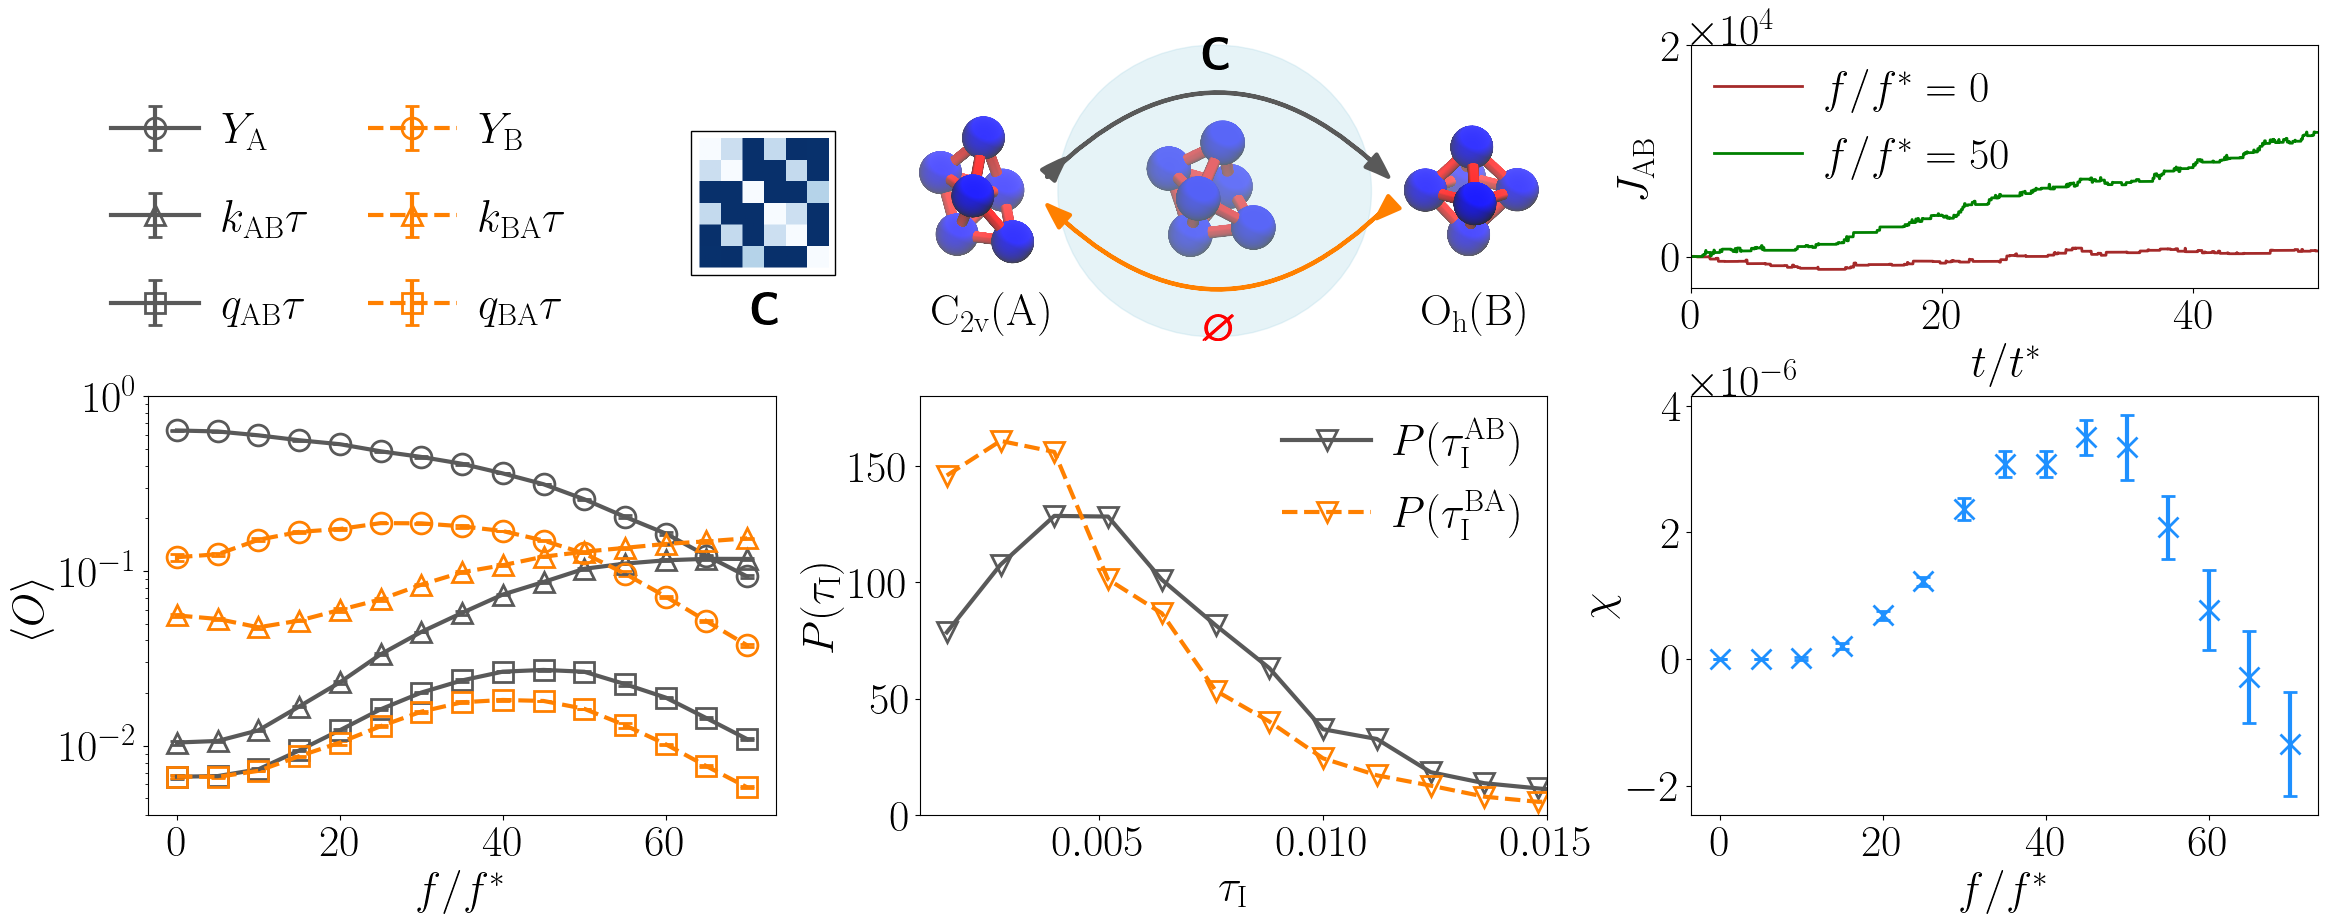
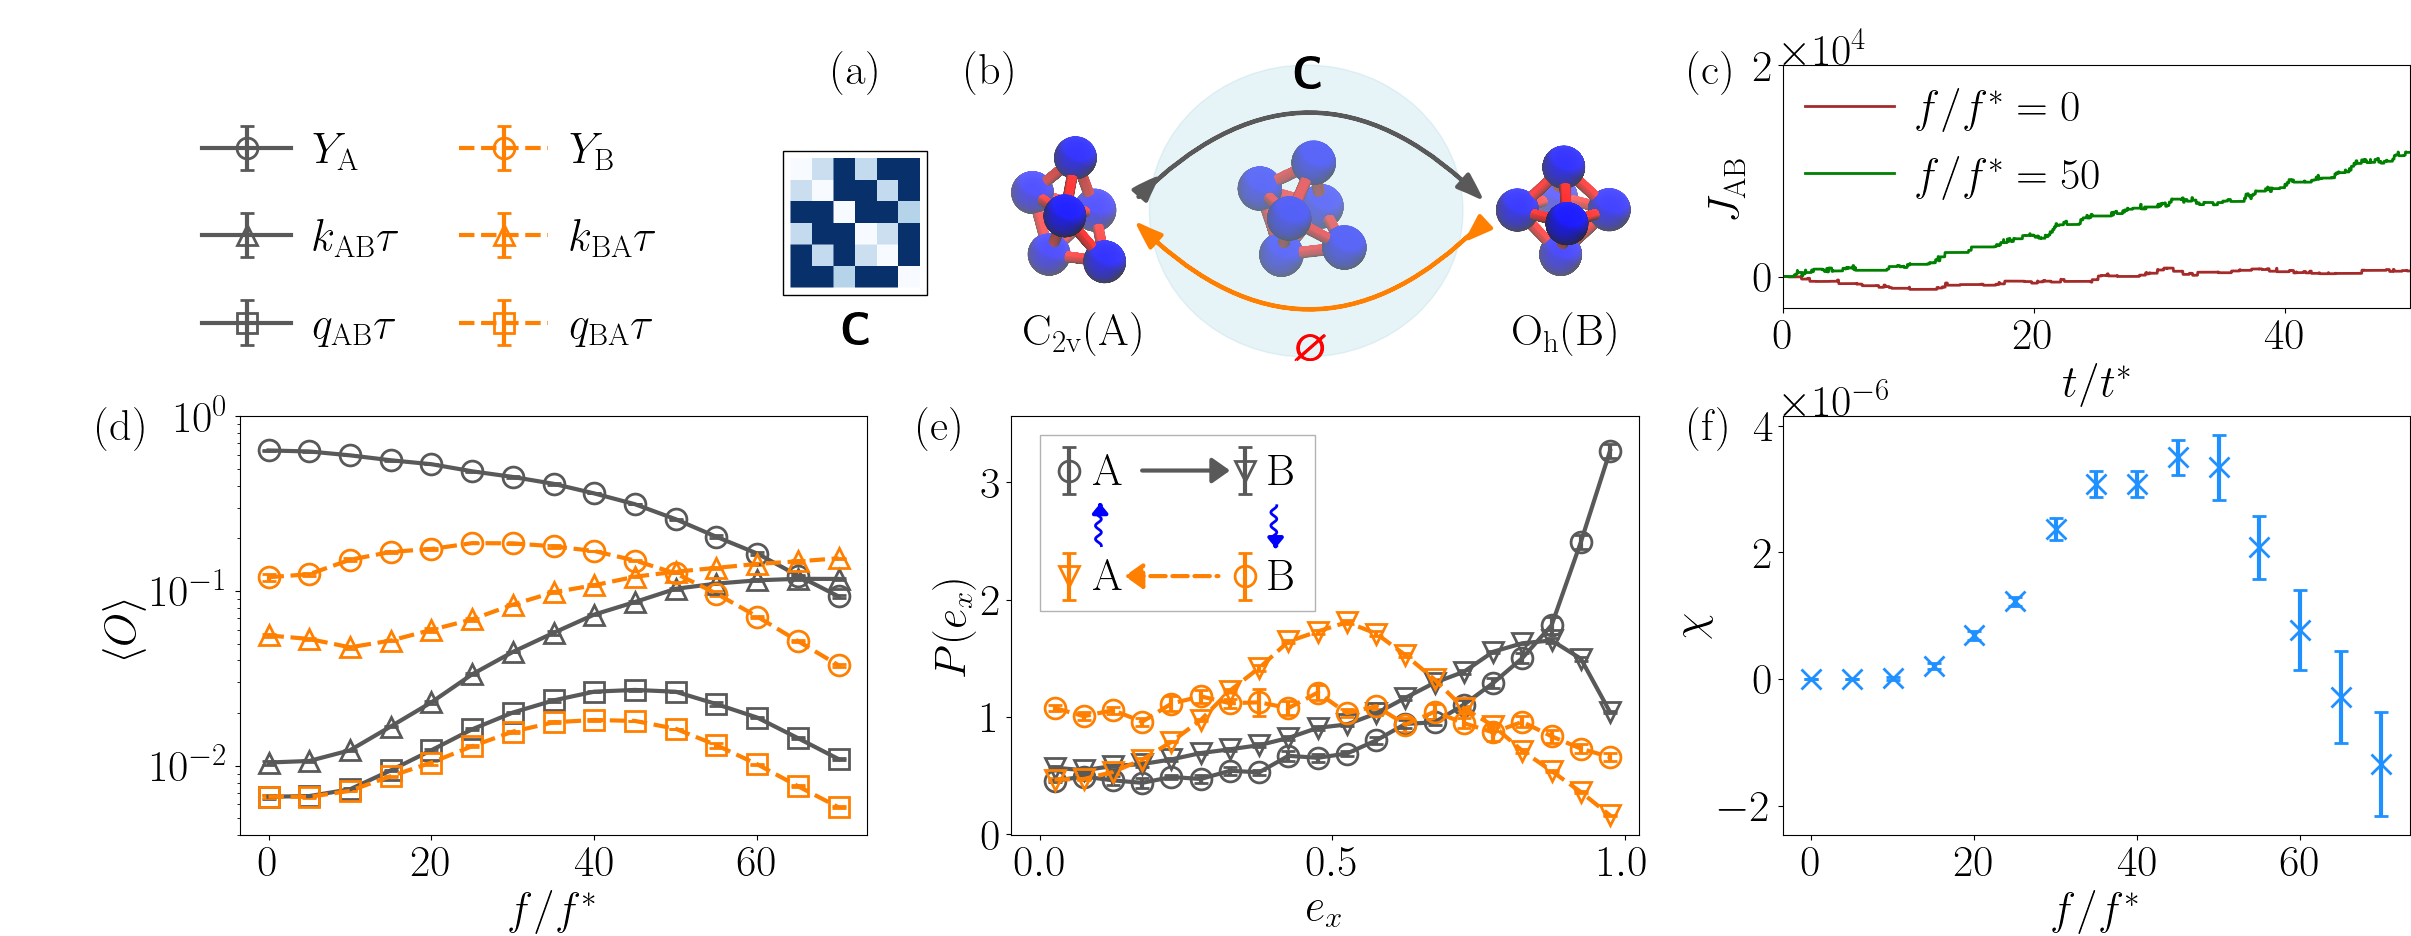
Add files via upload

diff --git a/fig2/fig2.py b/fig2/fig2.py
@@ -11,6 +11,7 @@ from matplotlib.patches import Rectangle,Ellipse
 import matplotlib.colors as mcol
 import matplotlib.cm as cm
 from mpl_toolkits.axes_grid1.inset_locator import inset_axes
+import matplotlib.path as mpath
 
 #mpl.style.use("classic")
 mpl.rcParams['mathtext.fontset'] = 'cm'
@@ -27,9 +28,9 @@ axs=[fig.add_subplot(gs[0:2,0]),fig.add_subplot(gs[0:2,1]),fig.add_subplot(gs[0:
 
 s=np.arange(0,75,5)
 x=np.zeros((3,np.size(s),4))
-x[0,:,:]=np.loadtxt('shearsweep/solC/run1/omega.txt')
-x[1,:,:]=np.loadtxt('shearsweep/solC/run2/omega.txt')
-x[2,:,:]=np.loadtxt('shearsweep/solC/run3/omega.txt')
+x[0,:,:]=np.loadtxt('shearsweep/solA/run1/omega.txt')
+x[1,:,:]=np.loadtxt('shearsweep/solA/run2/omega.txt')
+x[2,:,:]=np.loadtxt('shearsweep/solA/run3/omega.txt')
 
 rs=np.zeros((3,np.size(s),2))
 rs[:,:,0]=x[:,:,2]/x[:,:,0]
@@ -202,17 +203,17 @@ xqq=0.5*(xq[:-1]+xq[1:])
 yp,yq=np.histogram(yn,bins=20,range=(0.001,0.025),density=True)
 yqq=0.5*(yq[:-1]+yq[1:])
 
-axs[4].plot(xqq,xp,color=(0.35,0.35,0.35),marker='v',linestyle='-',
-        lw=3,fillstyle='none',markersize=15,mew=2,label=r'$P(\tau_\mathrm{I}^{\mathrm{AB}})$')
-axs[4].plot(yqq,yp,color=(1,0.5,0),marker='v',linestyle='--',
-        lw=3,fillstyle='none',markersize=15,mew=2,label=r'$P(\tau_\mathrm{I}^{\mathrm{BA}})$')
-axs[4].set_xlabel(r'$\tau_\mathrm{I}$')
-axs[4].set_ylabel(r'$P(\tau_\mathrm{I})$')
-axs[4].set_xlim(0.001,0.015)
-axs[4].set_ylim(0,180)
-axs[4].legend(loc = 'upper right', ncol = 1, columnspacing=2.,
-        labelspacing=0.5,handletextpad = 0.5,
-        borderpad=0.0,frameon='False',framealpha=0.0)#,bbox_to_anchor=(0.6, 1))
+#axs[4].plot(xqq,xp,color=(0.35,0.35,0.35),marker='v',linestyle='-',
+#        lw=3,fillstyle='none',markersize=15,mew=2,label=r'$P(\tau_\mathrm{I}^{\mathrm{AB}})$')
+#axs[4].plot(yqq,yp,color=(1,0.5,0),marker='v',linestyle='--',
+#        lw=3,fillstyle='none',markersize=15,mew=2,label=r'$P(\tau_\mathrm{I}^{\mathrm{BA}})$')
+#axs[4].set_xlabel(r'$\tau_\mathrm{I}$')
+#axs[4].set_ylabel(r'$P(\tau_\mathrm{I})$')
+#axs[4].set_xlim(0.001,0.015)
+#axs[4].set_ylim(0,180)
+#axs[4].legend(loc = 'upper right', ncol = 1, columnspacing=2.,
+#        labelspacing=0.5,handletextpad = 0.5,
+#        borderpad=0.0,frameon='False',framealpha=0.0)#,bbox_to_anchor=(0.6, 1))
 
 h1, l1 = axs[3].get_legend_handles_labels()
 #h2, l2 = axs[4].get_legend_handles_labels()
@@ -220,7 +221,76 @@ axs[0].legend(h1, l1, loc = 'lower center', ncol = 2, columnspacing=1.4,
         labelspacing=1,handletextpad = 0.5,
         borderpad=0.0,frameon='False',framealpha=0.0,bbox_to_anchor=(0.3, -0.25))
 
-plt.savefig('fig2.png',bbox_inches='tight',pad_inches=0.1)
+M=4 #number of samples
+shear=np.arange(50,55,5)
+l=np.size(shear)
+
+Lmax=1.
+Lmin=-0.
+Mb=20
+binL=np.linspace(Lmin,Lmax,Mb+1)
+edges=0.5*(binL[1:]+binL[:-1])
+
+Ah=np.loadtxt('Ah.txt')
+Bhin=np.loadtxt('Bhin.txt')
+Bh=np.loadtxt('Bh.txt')
+Ahin=np.loadtxt('Ahin.txt')
+
+axs[4].errorbar(Ah[:,0],Ah[:,1],yerr=Ah[:,2],color=(0.35,0.35,0.35),marker='o',lw=3,fillstyle='none',markersize=15,mew=2,capsize=5)
+axs[4].errorbar(Bhin[:,0],Bhin[:,1],yerr=Bhin[:,2],color=(0.35,0.35,0.35),marker='v',lw=3,fillstyle='none',markersize=15,mew=2,capsize=5)
+axs[4].errorbar(Bh[:,0],Bh[:,1],yerr=Bh[:,2],color=(1,0.5,0),marker='o',lw=3,fillstyle='none',markersize=15,mew=2,capsize=5,linestyle='--')
+axs[4].errorbar(Ahin[:,0],Ahin[:,1],yerr=Ahin[:,2],color=(1,0.5,0),marker='v',lw=3,fillstyle='none',markersize=15,mew=2,capsize=5,linestyle='--')
+
+#np.savetxt('Ah.txt',np.stack((edges,Ahm[:,cv],Ahe[:,cv]),axis=-1))
+#np.savetxt('Bhin.txt',np.stack((edges,Bhinm[:,cv],Bhine[:,cv]),axis=-1))
+#np.savetxt('Bh.txt',np.stack((edges,Bhm[:,cv],Bhe[:,cv]),axis=-1))
+#np.savetxt('Ahin.txt',np.stack((edges,Ahinm[:,cv],Ahine[:,cv]),axis=-1))
+
+axs[4].set_xlabel(r'$e_{x}$')
+axs[4].set_ylabel(r'$P(e_{x})$')
+
+axs[4].errorbar(0.05,3.1,yerr=0.2,color=(0.35,0.35,0.35),marker='o',lw=3,fillstyle='none',markersize=15,mew=2,capsize=5)
+axs[4].errorbar(0.35,3.1,yerr=0.2,color=(0.35,0.35,0.35),marker='v',lw=3,fillstyle='none',markersize=15,mew=2,capsize=5)
+axs[4].errorbar(0.35,2.2,yerr=0.2,color=(1,0.5,0),marker='o',lw=3,fillstyle='none',markersize=15,mew=2,capsize=5)
+axs[4].errorbar(0.05,2.2,yerr=0.2,color=(1,0.5,0),marker='v',lw=3,fillstyle='none',markersize=15,mew=2,capsize=5)
+
+axs[4].annotate(r'$\mathrm{A}$',xy=(0.09, 2.98), xycoords='data')
+axs[4].annotate(r'$\mathrm{B}$',xy=(0.39, 2.98), xycoords='data')
+axs[4].annotate(r'$\mathrm{B}$',xy=(0.39, 2.08), xycoords='data')
+axs[4].annotate(r'$\mathrm{A}$',xy=(0.09, 2.08), xycoords='data')
+
+axs[4].annotate("", xy=(0.33, 3.1), xytext=(0.17, 3.1),clip_on=False,zorder=2,xycoords='data',
+        arrowprops=dict(arrowstyle="-|>,head_width=0.24,head_length=0.34",lw=3,color=(0.35,0.35,0.35),linestyle='-'))
+
+axs[4].annotate("", xy=(0.31, 2.2), xytext=(0.14, 2.2),clip_on=False,zorder=2,xycoords='data',
+        arrowprops=dict(arrowstyle="<|-,head_width=0.24,head_length=0.34",lw=3,color=(1,0.5,0),linestyle='--'))
+
+Mt=100
+ts=np.linspace(0,6*np.pi,Mt)
+xts=0.4+0.005*np.cos(ts)
+yts=2.8-0.018*ts
+axs[4].plot(xts,yts,lw=2,color='b')
+
+xts=0.1+0.005*np.cos(ts)
+yts=2.46+0.018*ts
+axs[4].plot(xts,yts,lw=2,color='b')
+
+axs[4].annotate("", xy=(0.403, 2.46), xytext=(0.403, 2.44),clip_on=False,zorder=2,xycoords='data',
+        arrowprops=dict(arrowstyle="<|-,head_width=0.14,head_length=0.17",lw=3,color='b',linestyle='-'))
+
+axs[4].annotate("", xy=(0.103, 2.8), xytext=(0.103, 2.82),clip_on=False,zorder=2,xycoords='data',
+        arrowprops=dict(arrowstyle="<|-,head_width=0.14,head_length=0.17",lw=3,color='b',linestyle='-'))
+
+axs[4].add_patch(Rectangle((0, 1.9), 0.47, 1.5,facecolor='none',edgecolor='k',alpha=0.3))
+
+axs[0].annotate(r'$\mathrm{(a)}$',xy=(0.345, 0.91), xycoords='figure fraction')
+axs[0].annotate(r'$\mathrm{(b)}$',xy=(0.4, 0.91), xycoords='figure fraction')
+axs[0].annotate(r'$\mathrm{(c)}$',xy=(0.7, 0.91), xycoords='figure fraction')
+axs[0].annotate(r'$\mathrm{(d)}$',xy=(0.04, 0.53), xycoords='figure fraction')
+axs[0].annotate(r'$\mathrm{(e)}$',xy=(0.38, 0.53), xycoords='figure fraction')
+axs[0].annotate(r'$\mathrm{(f)}$',xy=(0.7, 0.53), xycoords='figure fraction')
+
+plt.savefig('fig2.png',bbox_inches='tight',pad_inches=0.02)
 #plt.show()
 
 #np.savetxt('fig1_wca.txt',np.stack((x,FAA),axis=1))
